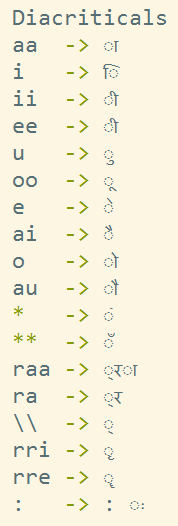
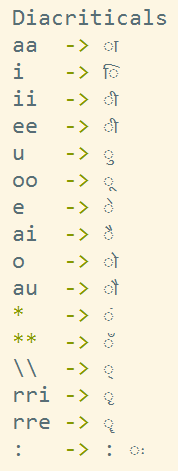
updated characterMap and its images

diff --git a/js/LipifyModel.js b/js/LipifyModel.js
@@ -137,8 +137,6 @@ function LipifyModel () {
     "au":"ौ",
     "*":"ं",
     "**":"ँ",
-    "raa":"्रा",
-    "ra":"्र",
     "a**":"ँ",
     "\\":"्",
     "rri":"ृ",
